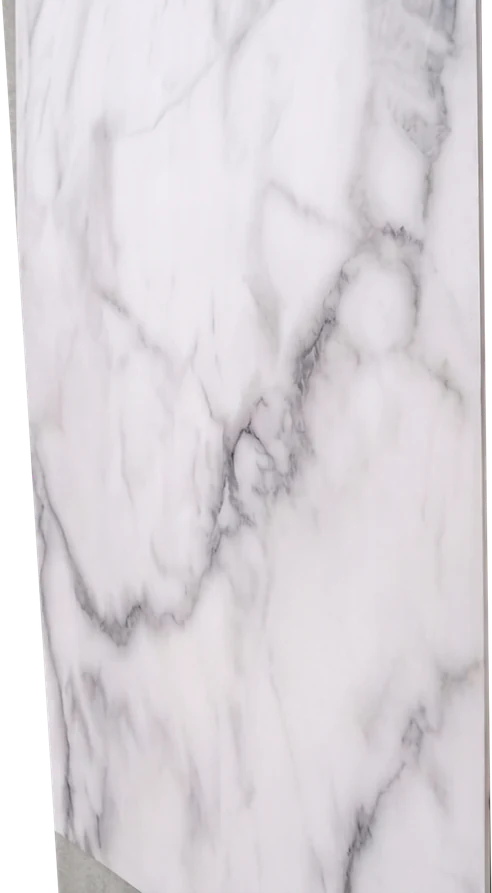
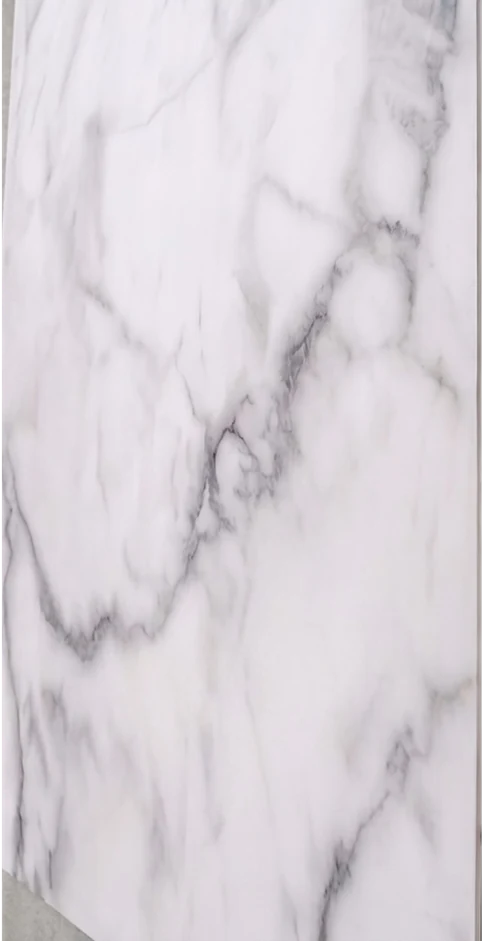
對照片做透視校正：板材四緣拉正為真正的矩形
原照片是斜角拍攝，板材本身即為梯形(上寬 825px、下寬 745px)，
無論動畫怎麼寫都會看起來像翹一角。改以單應性(homography)把板材四角
映射為軸對齊矩形、重新取樣整張圖，再裁掉校正產生的黑色邊角(左 102px)。
校正後板材左右緣完全垂直，並據此重新產生 plate/panel 兩層與 CSS 座標。

diff --git a/index.html b/index.html
@@ -447,12 +447,12 @@ footer{background:#0f0c09;color:rgba(255,255,255,.6);padding:64px 0 30px}
 .tech-wall{position:absolute;inset:0;z-index:0;pointer-events:none;overflow:hidden}
 /* 舞台維持照片比例並填滿區塊，板材才能用百分比精準對位 */
 .tw-stage{position:absolute;top:50%;left:50%;transform:translate(-50%,-50%);
-  aspect-ratio:1600/893;min-width:100%;min-height:100%;
+  aspect-ratio:1600/941;min-width:100%;min-height:100%;
   filter:brightness(.86) saturate(.95) contrast(1.02);  /* 盡量保留原照片的樣子 */
   transition:transform .5s cubic-bezier(.22,.61,.36,1)}
 .tw-plate{position:absolute;inset:0;background:url('img/tech/plate.webp') center/100% 100% no-repeat}
-/* 板材：left/width 對應它在原照片中的位置；整片平行位移貼合，不旋轉 */
-.tw-panel{position:absolute;left:34.69%;top:0;width:30.75%;height:100%;
+/* 板材：left/width 對應它在校正後照片中的位置；整片平行位移貼合，不旋轉 */
+.tw-panel{position:absolute;left:34.55%;top:0;width:30.19%;height:100%;
   background:url('img/tech/panel.webp') center/100% 100% no-repeat;
   will-change:transform,filter;backface-visibility:hidden;
   filter:drop-shadow(-8px 3px 14px rgba(0,0,0,.38))}
